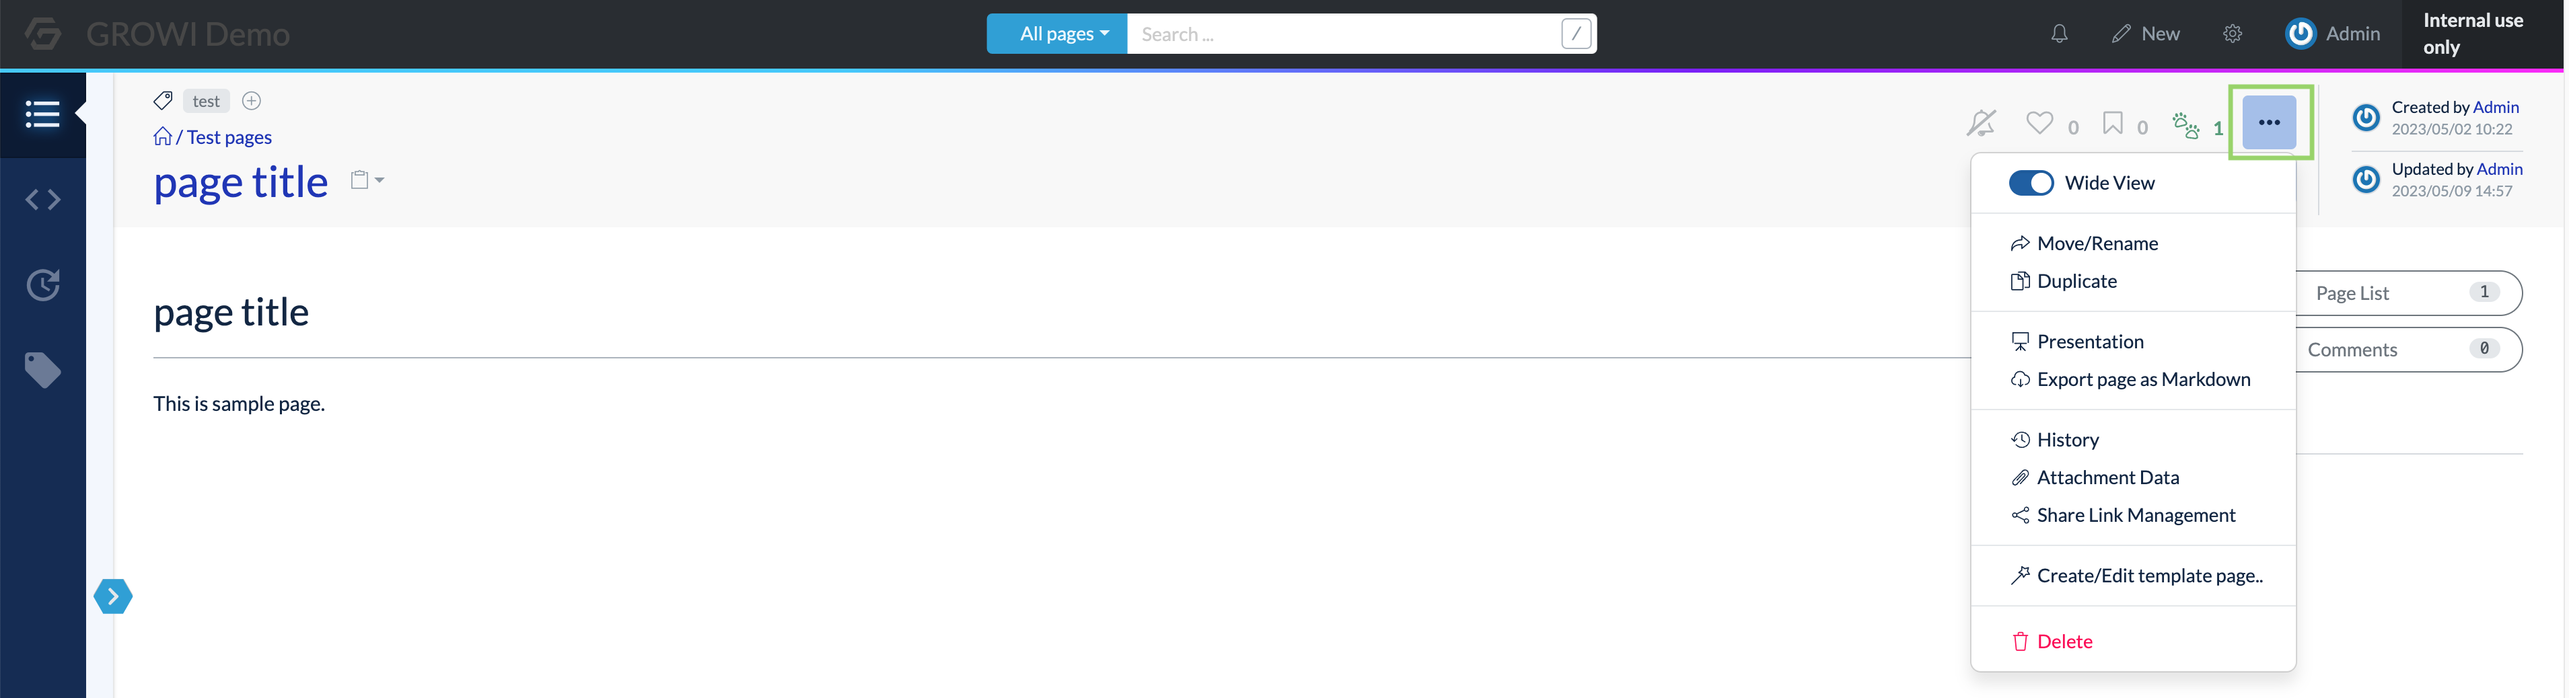
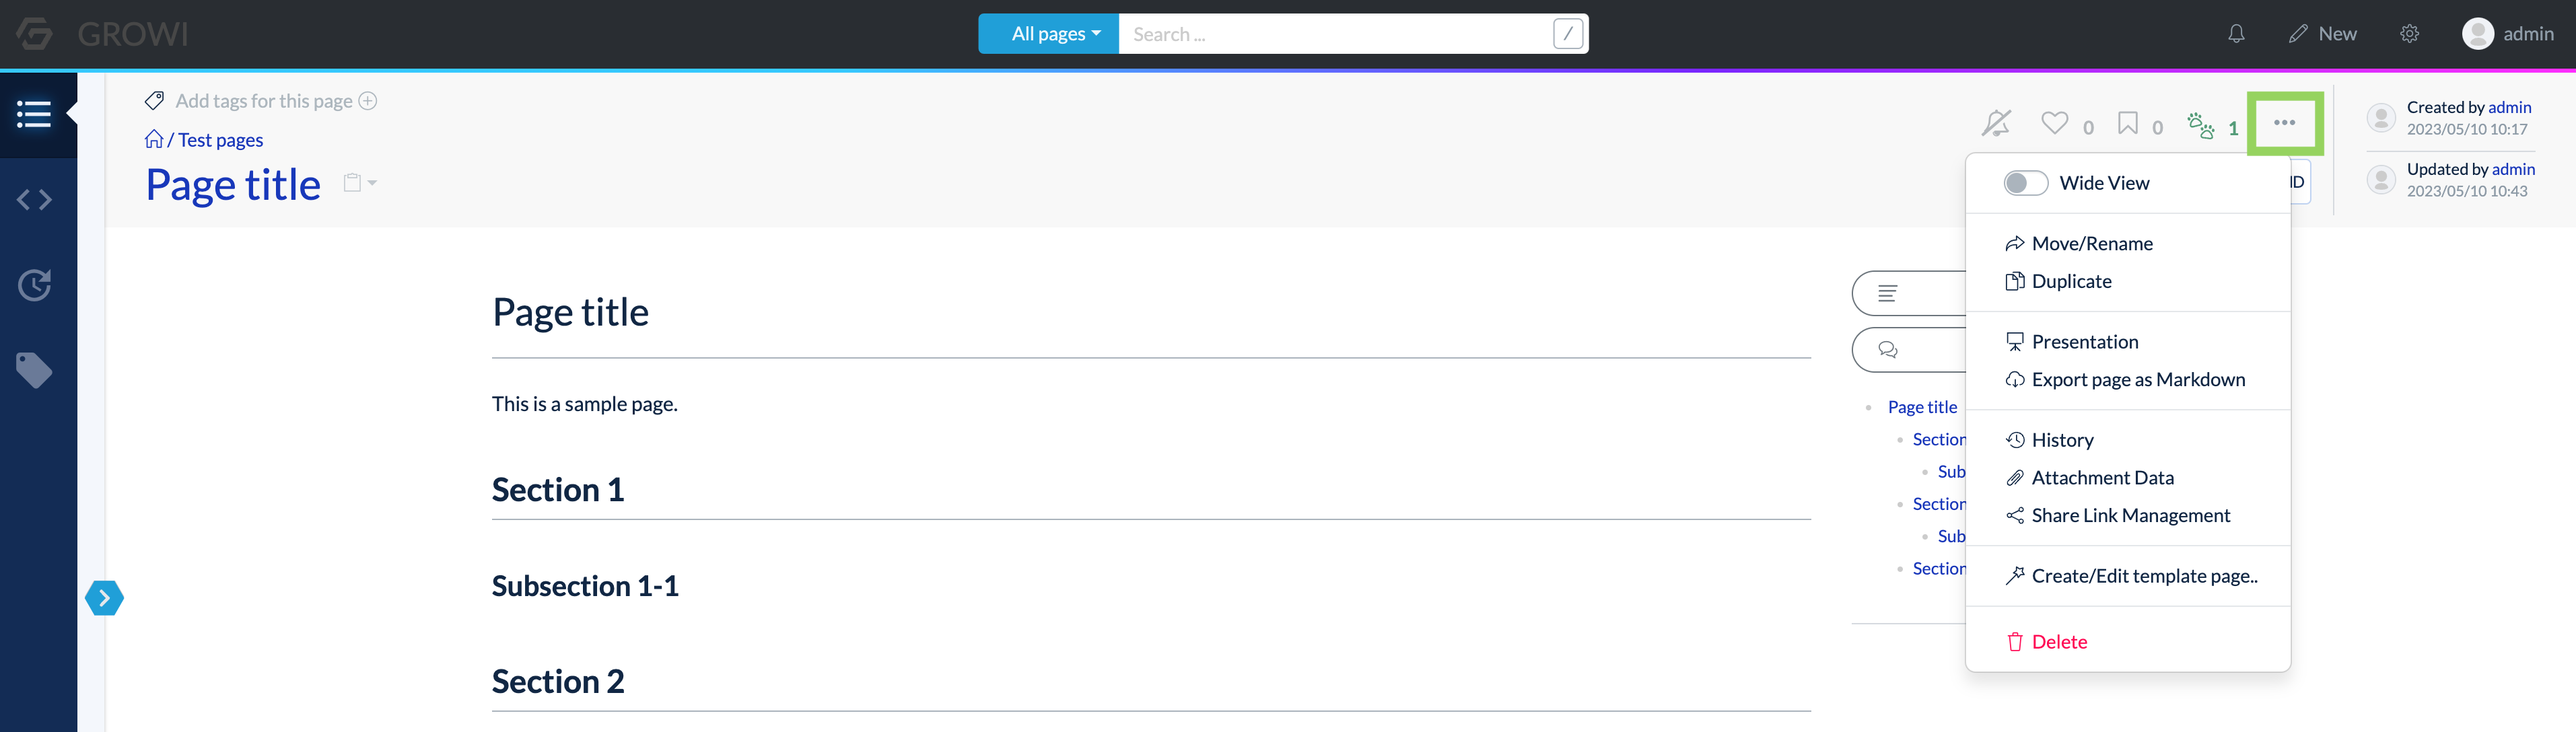
apply fb and add an image

diff --git a/docs/ja/guide/features/page_operation.md b/docs/ja/guide/features/page_operation.md
@@ -1,26 +1,26 @@
 # ページを移動/複製/削除する
 
-「⋯」ボタンをクリックすると、表示されているページに関する操作メニューが表示されます。
+ページツールボタンの3点リーダーをクリックすると、表示されているページに関する操作メニューが表示されます。
 
 ![](/assets/images/page_operation.png)
 
 ## 移動/名前変更する
 
-1. 「⋯」ボタンをクリックし、Move/Rename を選択してください。
+1. ページツールボタンの3点リーダーをクリックし、Move/Rename を選択してください。
 2. ダイアログが表示されるので、新しいページパスを入力してください。
 3. 必要があればオプションを設定してください。
 4. Rename ボタンを押してください。
 
 ## 複製する
 
-1. 「⋯」ボタンをクリックし、Duplicate を選択してください。
+1. ページツールボタンの3点リーダーをクリックし、Duplicate を選択してください。
 2. ダイアログが表示されるので、新しいページパスを入力してください。
 3. 必要があれば、Recursively をチェックしてください。
 4. Duplicate page ボタンを押してください。
 
 ## 削除する
 
-1. 「⋯」ボタンをクリックし、Delete を選択してください。
+1. ページツールボタンの3点リーダーをクリックし、Delete を選択してください。
 2. ダイアログが表示されるので、必要な項目をチェックしてください。
 3. Delete page ボタンを押してください。
 
@@ -31,5 +31,7 @@
 1. サイドバーのゴミ箱アイコンをクリックします。
 2. 削除したページの一覧が表示されるので、復元したいページをクリックします。
 3. Put back ボタンを押します。
+
+![](/assets/images/trash.png)
 
 ![](/assets/images/put_back_page.png)

diff --git a/docs/en/guide/features/page_operation.md b/docs/en/guide/features/page_operation.md
@@ -1,19 +1,19 @@
 # Move/Duplicate/Delete a page
 
-Clicking the "⋯" button opens a menu of operations on the current page.
+Clicking the three dot leader of the page tool button opens a menu of operations on the current page.
 
 ![](/assets/images/page_operation.png)
 
 ## Move/Rename a page
 
-1. Click the "⋯" button and select "Move/Rename".
+1. Click the three dot leader of the page tool button and select "Move/Rename".
 2. Enter the new page path in the dialog box that appears.
 3. Check the options if necessary.
 4. Click "Rename" button.
 
 ## Duplicate a page
 
-1. Click the "⋯" button and, and select "Duplicate".
+1. Click the three dot leader of the page tool button and, and select "Duplicate".
 2. Enter the new page path in the dialog box that appears.
 3. Check "Recursively" if necessary.
 4. Click "Duplicate page" button.
@@ -21,7 +21,7 @@ Clicking the "⋯" button opens a menu of operations on the current page.
 
 ## Delete a page
 
-1. Click the "⋯" button and, and select "Delete".
+1. Click the three dot leader of the page tool button and, and select "Delete".
 2. Check the necessary items in the dialog box.
 3. Click "Delete page" button.
 
@@ -32,5 +32,7 @@ Deleted pages can be viewed and restored from the Trash, except when "Delete com
 1. Click the trash icon on the sidebar.
 2. Click on the page you wish to restore.
 3. Click the "Put back" button.
+
+![](/assets/images/trash.png)
 
 ![](/assets/images/put_back_page.png)
